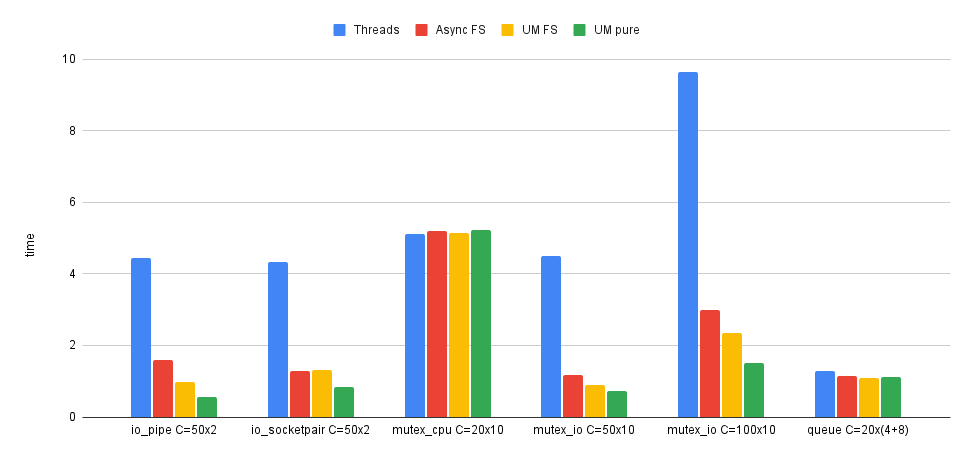
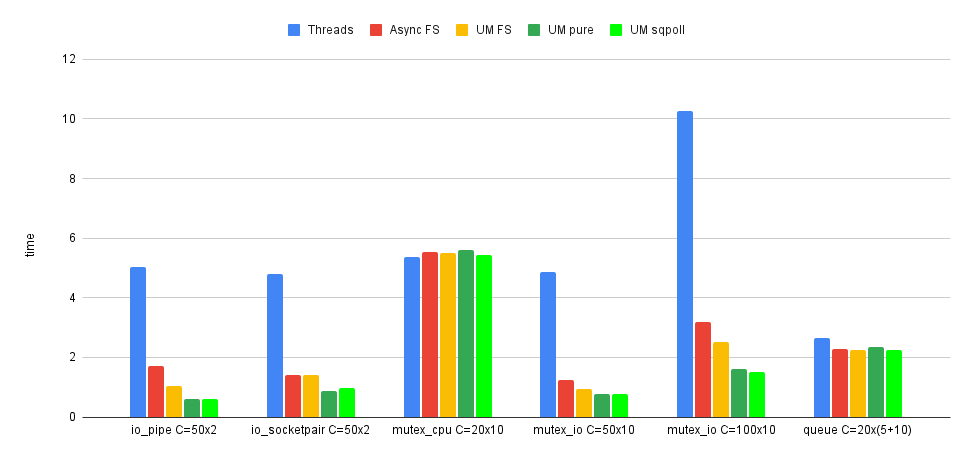
Add sqpoll mode to benchmarks.

diff --git a/benchmark/queue.rb b/benchmark/queue.rb
@@ -13,7 +13,7 @@ require 'uringmachine/fiber_scheduler'
 GROUPS = 20
 PRODUCERS = 5
 CONSUMERS = 10
-ITEMS = 100000
+ITEMS = 200000
 
 def run_threads
   threads = []
@@ -91,8 +91,8 @@ def run_um_fiber_scheduler
   scheduler.join
 end
 
-def run_um
-  machine = UM.new
+def run_um(sqpoll = nil)
+  machine = UM.new(4096, sqpoll)
   fibers = []
   GROUPS.times do
     queue = UM::Queue.new
@@ -121,4 +121,5 @@ Benchmark.bm do |x|
   x.report("Async FS")  { run_async_fiber_scheduler }
   x.report("UM FS")     { run_um_fiber_scheduler }
   x.report("UM pure")   { run_um }
+  x.report("UM sqpoll") { run_um(true) }
 end

diff --git a/benchmark/mutex_io.rb b/benchmark/mutex_io.rb
@@ -120,8 +120,8 @@ def run_um_fiber_scheduler
   # pp scheduler.calls.map { it[:sym] }.tally
 end
 
-def run_um
-  machine = UM.new
+def run_um(sqpoll = nil)
+  machine = UM.new(4096, sqpoll)
   fibers = []
   fds = []
   count = 0
@@ -153,5 +153,7 @@ Benchmark.bm do |x|
   x.report("UM FS")     { run_um_fiber_scheduler }
   `rm -f /tmp/mutex*`; GC.start
   x.report("UM pure")   { run_um }
+  `rm -f /tmp/mutex*`; GC.start
+  x.report("UM sqpoll")   { run_um(true) }
   `rm -f /tmp/mutex*`; GC.start
 end

diff --git a/benchmark/io_socketpair.rb b/benchmark/io_socketpair.rb
@@ -77,8 +77,8 @@ def run_um_fiber_scheduler
   scheduler.join
 end
 
-def run_um
-  machine = UM.new
+def run_um(sqpoll = nil)
+  machine = UM.new(4096, sqpoll)
   fibers = []
   GROUPS.times do
     r, w = UM.socketpair(UM::AF_UNIX, UM::SOCK_STREAM, 0)
@@ -99,4 +99,5 @@ Benchmark.bm do |x|
   x.report("Async FS")  { run_async_fiber_scheduler }
   x.report("UM FS")     { run_um_fiber_scheduler }
   x.report("UM pure")   { run_um }
+  x.report("UM sqpoll") { run_um(true) }
 end

diff --git a/benchmark/io_pipe.rb b/benchmark/io_pipe.rb
@@ -74,8 +74,8 @@ def run_um_fiber_scheduler
   scheduler.join
 end
 
-def run_um
-  machine = UM.new
+def run_um(sqpoll = nil)
+  machine = UM.new(4096, sqpoll)
   fibers = []
   GROUPS.times do
     r, w = UM.pipe
@@ -96,4 +96,5 @@ Benchmark.bm do |x|
   x.report("Async FS")  { run_async_fiber_scheduler }
   x.report("UM FS")     { run_um_fiber_scheduler }
   x.report("UM pure")   { run_um }
+  x.report("UM sqpoll") { run_um(true) }
 end

diff --git a/benchmark/mutex_cpu.rb b/benchmark/mutex_cpu.rb
@@ -74,8 +74,8 @@ def run_um_fiber_scheduler
   scheduler.join
 end
 
-def run_um
-  machine = UM.new
+def run_um(sqpoll = nil)
+  machine = UM.new(4096, sqpoll)
   fibers = []
 
   GROUPS.times do
@@ -99,4 +99,5 @@ Benchmark.bm do |x|
   x.report("Async FS")  { run_async_fiber_scheduler }
   x.report("UM FS")     { run_um_fiber_scheduler }
   x.report("UM pure")   { run_um }
+  x.report("UM sqpoll") { run_um(true) }
 end

diff --git a/benchmark/README.md b/benchmark/README.md
@@ -6,13 +6,19 @@ implementations:
 
 - *Threads*: thread-based concurrency using the stock Ruby I/O and
   synchronization classes.
+  
 - *Async FS*: fiber-based concurrency with the
   [Async](https://github.com/socketry/async) fiber scheduler, using the stock
   Ruby I/O and synchronization classes.
+  
 - *UM FS*: fiber-based concurrency with the UringMachine fiber scheduler, using
   the stock Ruby I/O and synchronization classes.
+  
 - *UM pure*: fiber-based concurrency using the UringMachine low-level (pure)
   API.
+  
+- *UM sqpoll*: the same as *UM pure* with [submission queue
+  polling](https://unixism.net/loti/tutorial/sq_poll.html).
 
 <img src="./chart.png">
 
@@ -20,12 +26,19 @@ implementations:
 
 - We see the stark difference between thread-based and fiber-based concurrency.
   For I/O-bound workloads, there's really no contest - and that's exactly why
-  the fiber scheduler interface changes everything. - The UringMachine fiber
-  scheduler is in some cases faster than the Async fiber scheduler, but not in
-  all. This might be because the Async FS does scheduling of fibers in plain
-  Ruby, while the UMFS implements a runqueue in its C-extension. - The
-  UringMachine low-level API is faster to use in most cases, and its performance
-  advantage grows with the level of concurrency.
+  the fiber scheduler interface changes everything.
+
+- The UringMachine fiber scheduler is in some cases faster than the Async fiber
+  scheduler, but not in all. This might be because the Async FS does scheduling
+  of fibers in plain Ruby, while the UMFS implements a runqueue in its
+  C-extension.
+
+- The UringMachine low-level API is faster to use in most cases, and its
+  performance advantage grows with the level of concurrency.
+
+- SQ polling provides a performance advantage in high-concurrency scenarios,
+  depending on the context. It remains to be seen how it affects performance in
+  real-world situations. 
 
 ## 1. I/O - Pipe
 
@@ -33,11 +46,12 @@ implementations:
 writing/reading 1KB of data to the pipe.
 
 ```
-C=50x2        user     system      total        real
-Threads   2.218838   2.729582   4.948420 (  4.450232)
-Async FS  1.136269   0.458769   1.595038 (  1.595244)
-UM FS     0.651478   0.327257   0.978735 (  0.979133)
-UM pure   0.226837   0.341539   0.568376 (  0.568664)
+C=50x2         user     system      total        real
+Threads    2.501885   3.111840   5.613725 (  5.017991)
+Async FS   1.189332   0.526275   1.715607 (  1.715726)
+UM FS      0.715688   0.318851   1.034539 (  1.034723)
+UM pure    0.241029   0.365079   0.606108 (  0.606308)
+UM sqpoll  0.217577   0.634414   0.851991 (  0.593531)
 ```
 
 ## 2. I/O - Socketpair
@@ -46,11 +60,12 @@ UM pure   0.226837   0.341539   0.568376 (  0.568664)
 pair of threads/fibers writing/reading 1KB of data to the sockets.
 
 ```
-N=50          user     system      total        real
-Threads   2.038691   3.355664   5.394355 (  4.337242)
-Async FS  0.526322   0.770983   1.297305 (  1.297580)
-UM FS     0.469290   0.842309   1.311599 (  1.311979)
-UM pure   0.227637   0.603944   0.831581 (  0.831811)
+N=50           user     system      total        real
+Threads    2.372753   3.612468   5.985221 (  4.798625)
+Async FS   0.516226   0.877822   1.394048 (  1.394266)
+UM FS      0.521360   0.875674   1.397034 (  1.397327)
+UM pure    0.239353   0.642498   0.881851 (  0.881962)
+UM sqpoll  0.220933   1.021997   1.242930 (  0.976198)
 ```
 
 ## 3. Mutex - CPU-bound
@@ -59,11 +74,12 @@ UM pure   0.227637   0.603944   0.831581 (  0.831811)
 threads/fibers locking the mutex and performing a Regexp match.
 
 ```
-N=20          user     system      total        real
-Threads   5.109329   0.016229   5.125558 (  5.117787)
-Async FS  5.196394   0.006960   5.203354 (  5.204112)
-UM FS     5.140855   0.002983   5.143838 (  5.144595)
-UM pure   5.209638   0.008995   5.218633 (  5.219309)
+N=20           user     system      total        real
+Threads    5.348378   0.021847   5.370225 (  5.362117)
+Async FS   5.519970   0.003964   5.523934 (  5.524536)
+UM FS      5.505282   0.003983   5.509265 (  5.509840)
+UM pure    5.607048   0.002991   5.610039 (  5.610749)
+UM sqpoll  5.437836   5.418316  10.856152 (  5.443331)
 ```
 
 ## 4. Mutex - I/O-bound
@@ -73,59 +89,67 @@ start 10 worker threads/fibers locking the mutex and writing 1KB chunks to the
 file.
 
 ```
-N=1           user     system      total        real
-Threads   0.035013   0.056987   0.092000 (  0.076400)
-Async FS  0.036953   0.070906   0.107859 (  0.099738)
-UM FS     0.026742   0.065379   0.092121 (  0.092953)
-UM pure   0.019253   0.081535   0.100788 (  0.098651)
+N=1            user     system      total        real
+Threads    0.044103   0.057831   0.101934 (  0.087204)
+Async FS   0.050608   0.084449   0.135057 (  0.121300)
+UM FS      0.030355   0.077069   0.107424 (  0.108146)
+UM pure    0.024489   0.086201   0.110690 (  0.108023)
+UM sqpoll  0.022752   0.225133   0.247885 (  0.136251)
 
-N=5           user     system      total        real
-Threads   0.223255   0.312319   0.535574 (  0.418414)
-Async FS  0.076403   0.156112   0.232515 (  0.131394)
-UM FS     0.070267   0.119471   0.189738 (  0.105529)
-UM pure   0.033473   0.173126   0.206599 (  0.112118)
+N=5            user     system      total        real
+Threads    0.214296   0.384078   0.598374 (  0.467425)
+Async FS   0.085820   0.158782   0.244602 (  0.139766)
+UM FS      0.064279   0.147278   0.211557 (  0.117488)
+UM pure    0.036478   0.182950   0.219428 (  0.119745)
+UM sqpoll  0.036929   0.347573   0.384502 (  0.160814)
 
-N=10          user     system      total        real
-Threads   0.413100   0.687134   1.100234 (  0.858972)
-Async FS  0.120133   0.274076   0.394209 (  0.214851)
-UM FS     0.106022   0.216041   0.322063 (  0.172295)
-UM pure   0.065967   0.284208   0.350175 (  0.185191)
+N=10           user     system      total        real
+Threads    0.435688   0.752219   1.187907 (  0.924561)
+Async FS   0.126573   0.303704   0.430277 (  0.234900)
+UM FS      0.128427   0.215204   0.343631 (  0.184074)
+UM pure    0.065522   0.359659   0.425181 (  0.192385)
+UM sqpoll  0.076810   0.477429   0.554239 (  0.210087)
 
-N=20          user     system      total        real
-Threads   0.791722   1.434177   2.225899 (  1.753223)
-Async FS  0.260528   0.509606   0.770134 (  0.422749)
-UM FS     0.227727   0.405714   0.633441 (  0.337078)
-UM pure   0.104541   0.591078   0.695619 (  0.312684)
+N=20           user     system      total        real
+Threads    0.830763   1.585299   2.416062 (  1.868194)
+Async FS   0.291823   0.644043   0.935866 (  0.507887)
+UM FS      0.226202   0.460401   0.686603 (  0.362879)
+UM pure    0.120524   0.616274   0.736798 (  0.332182)
+UM sqpoll  0.177150   0.849890   1.027040 (  0.284069)
 
-N=50          user     system      total        real
-Threads   2.050880   3.664665   5.715545 (  4.489188)
-Async FS  0.818177   1.217570   2.035747 (  1.170686)
-UM FS     0.737403   0.908713   1.646116 (  0.896816)
-UM pure   0.273933   1.386275   1.660208 (  0.728375)
+N=50           user     system      total        real
+Threads    2.124048   4.182537   6.306585 (  4.878387)
+Async FS   0.897134   1.268629   2.165763 (  1.254624)
+UM FS      0.733193   0.971821   1.705014 (  0.933749)
+UM pure    0.226431   1.504441   1.730872 (  0.760731)
+UM sqpoll  0.557310   2.107389   2.664699 (  0.783992)
 
-N=100         user     system      total        real
-Threads   4.346155   7.886190  12.232345 (  9.652601)
-Async FS  2.444899   2.346073   4.790972 (  3.001407)
-UM FS     2.042372   1.855187   3.897559 (  2.359921)
-UM pure   0.508573   2.822692   3.331265 (  1.519224)
+N=100          user     system      total        real
+Threads    4.420832   8.628756  13.049588 ( 10.264590)
+Async FS   2.557661   2.532998   5.090659 (  3.179336)
+UM FS      2.262136   1.912055   4.174191 (  2.523789)
+UM pure    0.633897   2.793998   3.427895 (  1.612989)
+UM sqpoll  1.119460   4.193703   5.313163 (  1.525968)
 
 N=200         user     system      total        real
-Threads   9.083989  17.866147  26.950136 ( 21.491992)
-Async FS  8.400413   4.923262  13.323675 (  9.398307)
-UM FS     8.429383   3.542056  11.971439 (  8.465551)
-UM pure   1.259075   5.250329   6.509404 (  3.208363)
+Threads    9.441905  19.173541  28.615446 ( 22.857740)
+Async FS   9.063194   5.375939  14.439133 ( 10.156692)
+UM FS      8.788661   4.124227  12.912888 (  8.967054)
+UM pure    1.213050   5.659938   6.872988 (  3.387250)
+UM sqpoll  1.435932   8.326375   9.762307 (  2.436268)
 ```
 
 ## 5. Queue
 
-20 concurrent groups, where in each group we create a queue, start 4 producer
-threads/fibers that push items to the queue, and 8 consumer threads/fibers that
+20 concurrent groups, where in each group we create a queue, start 5 producer
+threads/fibers that push items to the queue, and 10 consumer threads/fibers that
 pull items from the queue.
 
 ```
-N=20          user     system      total        real
-Threads   1.221488   0.063794   1.285282 (  1.277677)
-Async FS  1.100493   0.044960   1.145453 (  1.145690)
-UM FS     1.058176   0.033955   1.092131 (  1.092379)
-UM pure   1.024583   0.100029   1.124612 (  1.124821)
+N=20           user     system      total        real
+Threads    2.522270   0.125569   2.647839 (  2.638276)
+Async FS   2.245917   0.044860   2.290777 (  2.291068)
+UM FS      2.235130   0.000958   2.236088 (  2.236392)
+UM pure    2.125827   0.225050   2.350877 (  2.351347)
+UM sqpoll  2.044662   2.460344   4.505006 (  2.261502)
 ```
